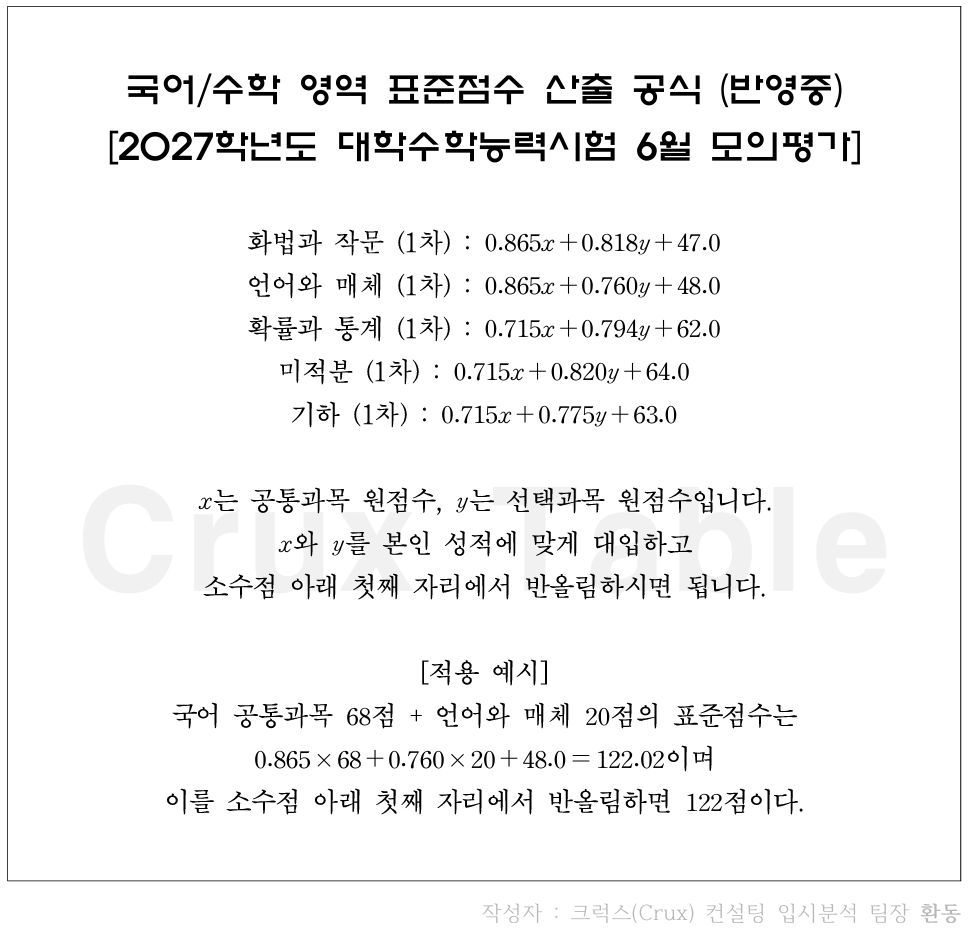
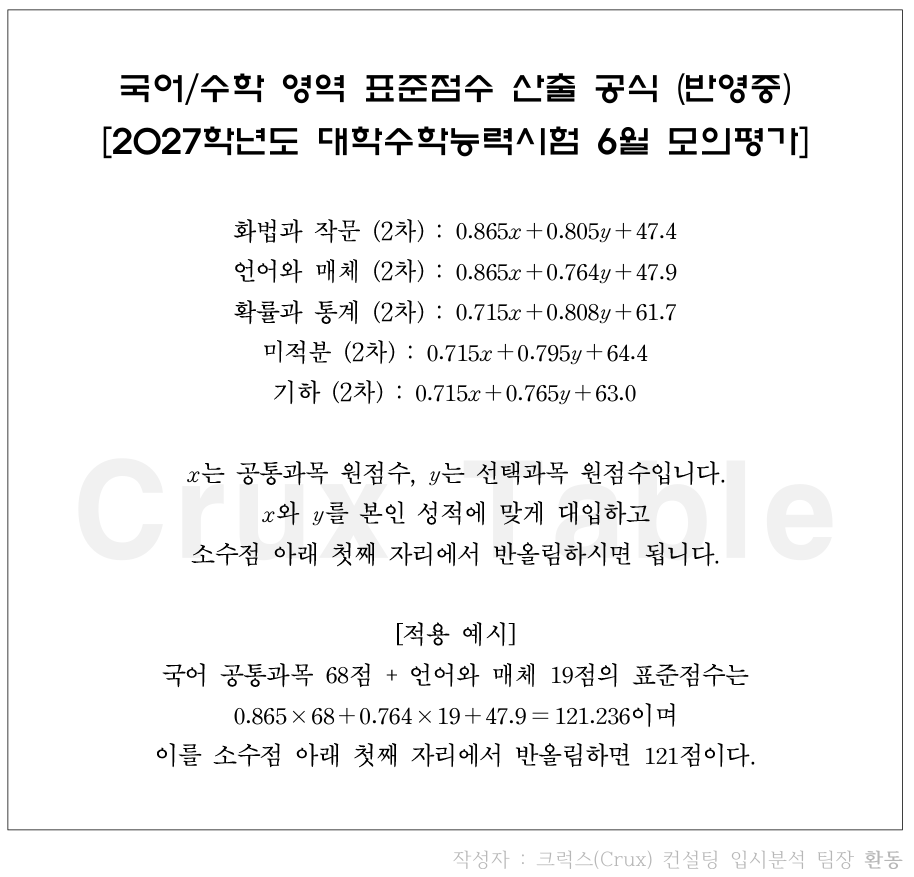
2027학년도 6모평 2차

diff --git a/js/data.js b/js/data.js
@@ -3642,8 +3642,8 @@ let data = {
     "20276sat": {
         "국어": [
             {
-                "화법과 작문": [0.865, 0.818, 47.0],
-                "언어와 매체": [0.865, 0.760, 48.0]
+                "화법과 작문": [0.865, 0.805, 47.4],
+                "언어와 매체": [0.865, 0.764, 47.9]
             },
         ["132", "100", "1"],
         ["131", "99", "1"],
@@ -3734,9 +3734,9 @@ let data = {
         ],
         "수학": [
             {
-                "확률과 통계": [0.715, 0.794, 62.0],
-                "미적분": [0.715, 0.820, 64.0],
-                "기하": [0.715, 0.775, 63.0]
+                "확률과 통계": [0.715, 0.808, 61.7],
+                "미적분": [0.715, 0.795, 64.4],
+                "기하": [0.715, 0.765, 63.0]
             },
         ["138", "100", "1"],
         ["137", "100", "1"],

diff --git a/index.html b/index.html
@@ -25,9 +25,9 @@
         </p>
         <span style="text-align:center">☆★Update★☆<br></span>
         <p style="line-height: 150%">
+            <strong>[2026-07-01]</strong> 2027학년도 6월 모평 데이터 추가<br>
             <strong>[2026-06-19]</strong> 2026학년도 6월 고1,2 데이터 추가<br>
             <strong>[2026-05-20]</strong> 2026학년도 5월 고3 데이터 추가<br>
-            <strong>[2026-04-10]</strong> 2026학년도 3월 고1,2,3 데이터 추가<br>
         </p>
     </div>
 
